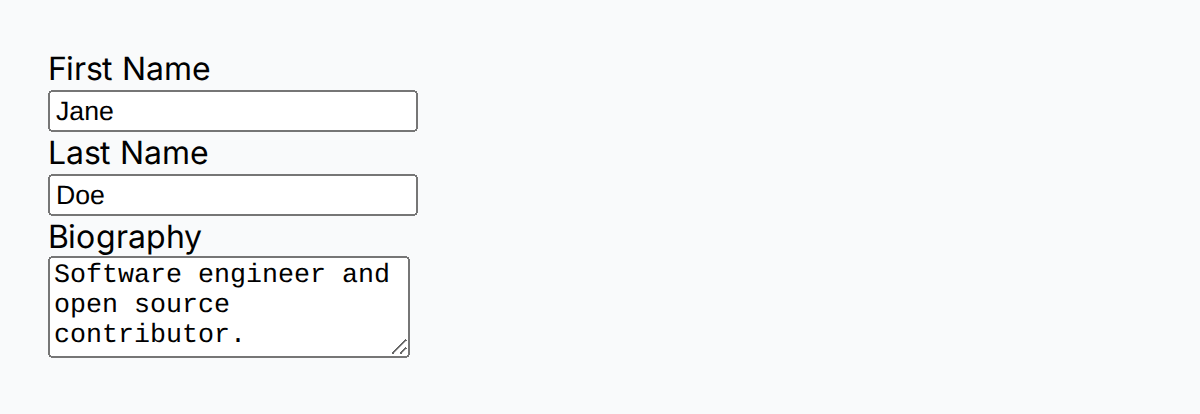
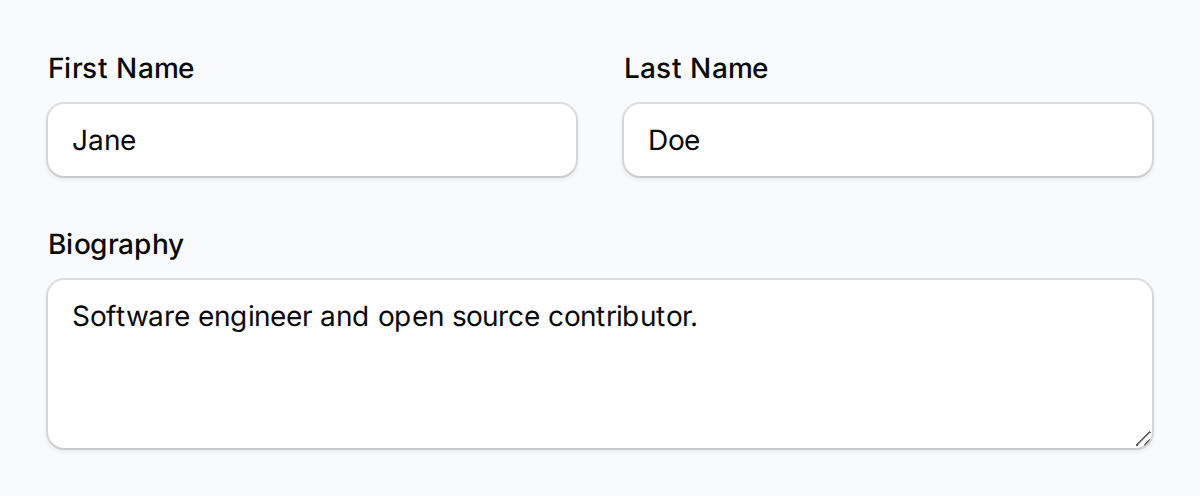
Improve example screenshots with proper styling (#36)
* Update example screenshots with fixed rendering

* Improve example screenshots with proper styling

- Wrap infolist entries in Section for card-style appearance
- Fix grid layout by using columns(['default' => 2]) for small viewports
- Replace JS-heavy form-fields example with well-rendering components
- Remove unused imports (ColorPicker, FileUpload, KeyValue, TagsInput)

---------

diff --git a/tests/Examples/GenerateExamplesTest.php b/tests/Examples/GenerateExamplesTest.php
@@ -2,12 +2,8 @@
 
 use CCK\FilamentShot\FilamentShot;
 use Filament\Forms\Components\Checkbox;
-use Filament\Forms\Components\ColorPicker;
 use Filament\Forms\Components\DatePicker;
-use Filament\Forms\Components\FileUpload;
-use Filament\Forms\Components\KeyValue;
 use Filament\Forms\Components\Select;
-use Filament\Forms\Components\TagsInput;
 use Filament\Forms\Components\Textarea;
 use Filament\Forms\Components\TextInput;
 use Filament\Forms\Components\Toggle;
@@ -176,10 +172,13 @@ it('generates table dark example', function () use ($outputDir) {
 
 it('generates infolist example', function () use ($outputDir) {
     FilamentShot::infolist([
-        TextEntry::make('name')->label('Name'),
-        TextEntry::make('email')->label('Email'),
-        TextEntry::make('role')->label('Role'),
-        TextEntry::make('joined')->label('Member Since'),
+        Section::make('User Profile')
+            ->schema([
+                TextEntry::make('name')->label('Name'),
+                TextEntry::make('email')->label('Email'),
+                TextEntry::make('role')->label('Role'),
+                TextEntry::make('joined')->label('Member Since'),
+            ]),
     ])
         ->state([
             'name' => 'Jane Doe',
@@ -195,10 +194,13 @@ it('generates infolist example', function () use ($outputDir) {
 
 it('generates infolist dark example', function () use ($outputDir) {
     FilamentShot::infolist([
-        TextEntry::make('name')->label('Name'),
-        TextEntry::make('email')->label('Email'),
-        TextEntry::make('role')->label('Role'),
-        TextEntry::make('joined')->label('Member Since'),
+        Section::make('User Profile')
+            ->schema([
+                TextEntry::make('name')->label('Name'),
+                TextEntry::make('email')->label('Email'),
+                TextEntry::make('role')->label('Role'),
+                TextEntry::make('joined')->label('Member Since'),
+            ]),
     ])
         ->state([
             'name' => 'Jane Doe',
@@ -301,7 +303,8 @@ it('generates form with section layout example', function () use ($outputDir) {
 
 it('generates form with grid layout example', function () use ($outputDir) {
     FilamentShot::form([
-        Grid::make(2)
+        Grid::make()
+            ->columns(['default' => 2])
             ->schema([
                 TextInput::make('first_name')
                     ->label('First Name')
@@ -323,17 +326,32 @@ it('generates form with grid layout example', function () use ($outputDir) {
 
 it('generates form with additional field types example', function () use ($outputDir) {
     FilamentShot::form([
-        DatePicker::make('birthday')->label('Birthday'),
-        ColorPicker::make('theme_color')->label('Theme Color'),
-        TagsInput::make('skills')->label('Skills'),
-        FileUpload::make('avatar')->label('Avatar'),
-        KeyValue::make('metadata')->label('Metadata'),
+        Section::make('Event Details')
+            ->schema([
+                TextInput::make('event_name')
+                    ->label('Event Name'),
+                DatePicker::make('event_date')
+                    ->label('Date'),
+                Select::make('category')
+                    ->label('Category')
+                    ->options([
+                        'conference' => 'Conference',
+                        'workshop' => 'Workshop',
+                        'meetup' => 'Meetup',
+                    ]),
+                Textarea::make('description')
+                    ->label('Description')
+                    ->rows(2),
+                Toggle::make('published')
+                    ->label('Published'),
+            ]),
     ])
         ->state([
-            'birthday' => '1990-06-15',
-            'theme_color' => '#3b82f6',
-            'skills' => ['Laravel', 'PHP', 'Vue.js'],
-            'metadata' => ['role' => 'admin', 'plan' => 'pro'],
+            'event_name' => 'Laravel Meetup 2024',
+            'event_date' => '2024-06-15',
+            'category' => 'meetup',
+            'description' => 'Monthly Laravel community gathering with talks and networking.',
+            'published' => true,
         ])
         ->width(600)
         ->save("$outputDir/form-fields.png");
